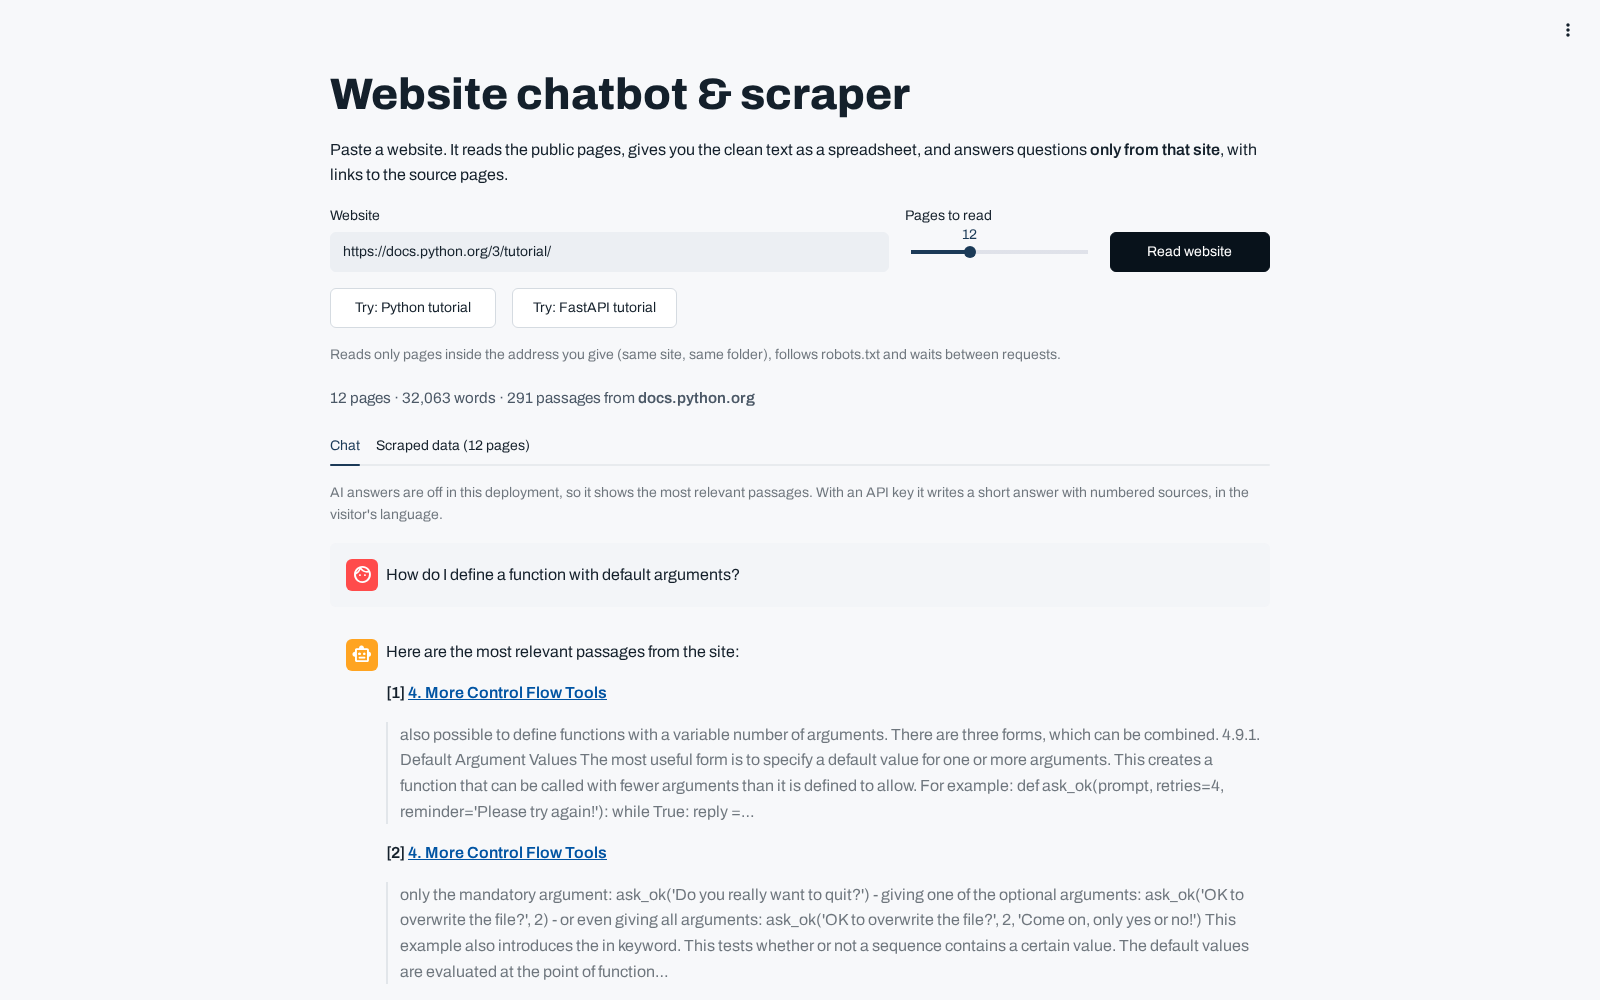
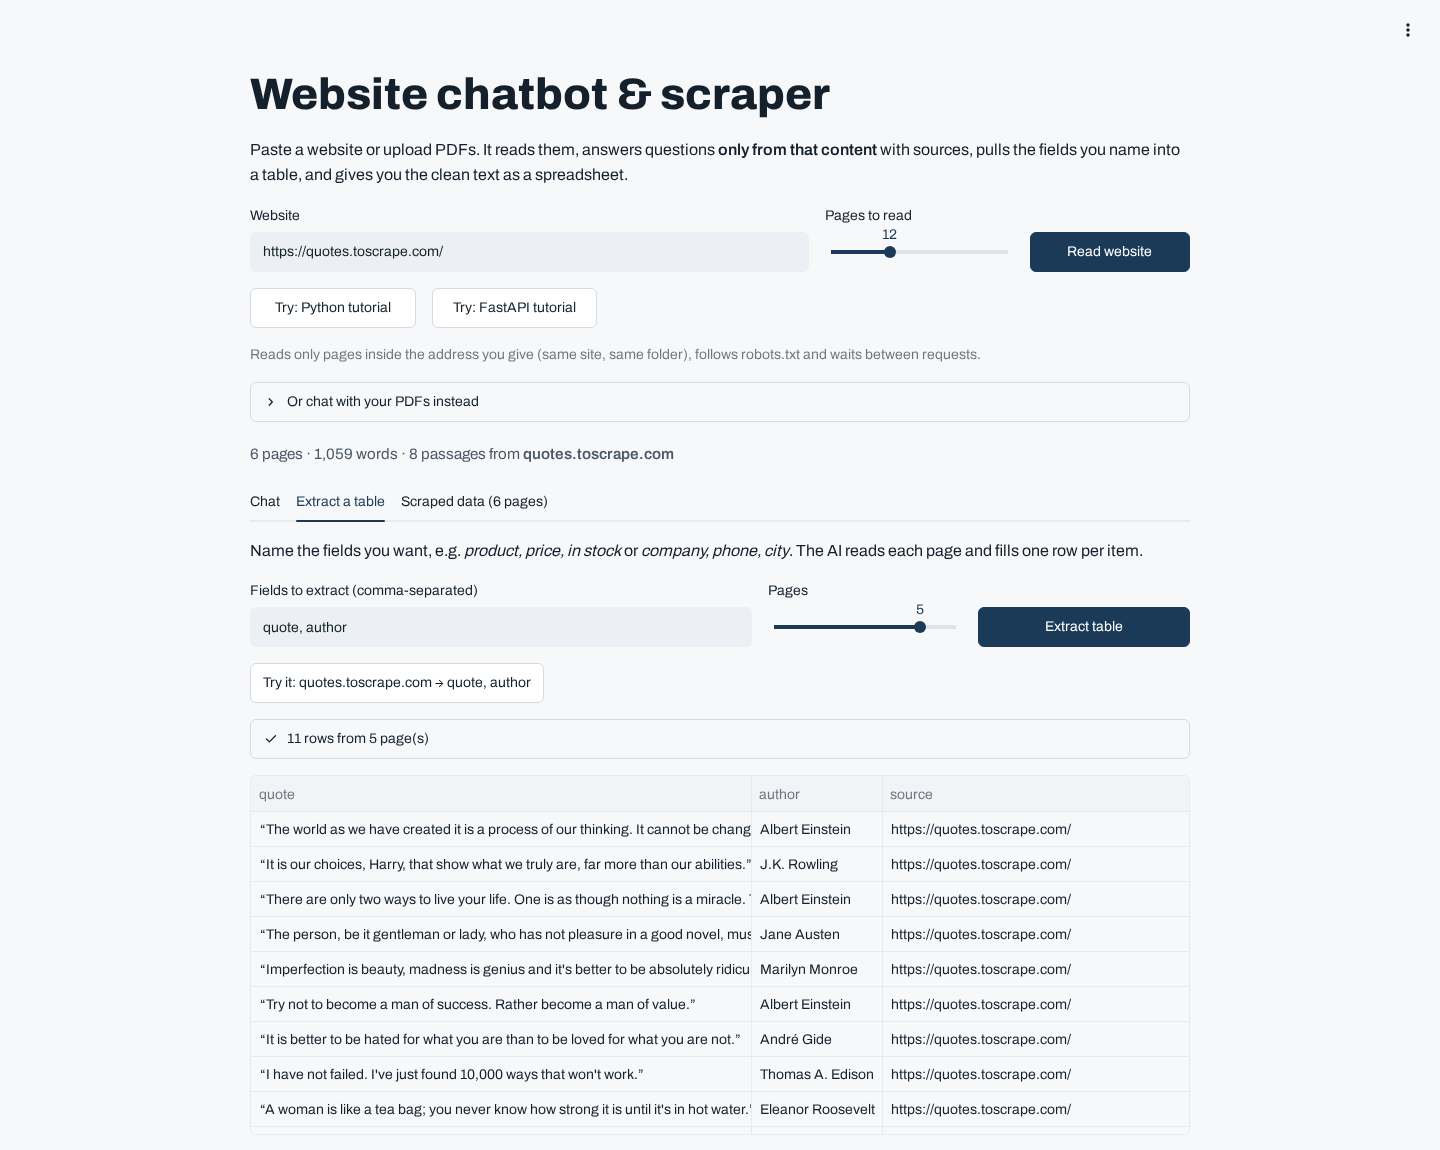
Chat with PDFs, table extraction, OpenRouter free models with fallback

diff --git a/app.py b/app.py
@@ -16,7 +16,10 @@ try:  # Streamlit Cloud secrets -> environment
 except Exception:
     pass
 
+import llm  # noqa: E402
 from answer import AnswerError, ai_available, extractive_answer, stream_answer  # noqa: E402
+from docs import read_pdfs  # noqa: E402
+from extract import extract_rows, parse_fields  # noqa: E402
 from scraper import BlockedURL, Page, crawl  # noqa: E402
 from search import Index  # noqa: E402
 
@@ -26,6 +29,8 @@ HIRE_URL = "https://www.upwork.com/freelancers/~01d6ae0f1a06a43ac0"
 # ---------------------------------------------------------------------------
 
 MAX_QUESTIONS = 12  # per visitor session, keeps a public demo's API bill small
+MAX_EXTRACT_PAGES = 20  # per visitor session
+QUOTES = "https://quotes.toscrape.com/"
 EXAMPLES = {"Python tutorial": "https://docs.python.org/3/tutorial/", "FastAPI tutorial": "https://fastapi.tiangolo.com/tutorial/"}
 
 st.set_page_config(page_title="Website chatbot & scraper", page_icon="💬", layout="wide")
@@ -50,12 +55,23 @@ def scrape(url: str, max_pages: int) -> list[dict]:
 
 def start_scrape(url: str, max_pages: int):
     st.session_state.pending = (url, max_pages)
+    st.session_state.open_tab = None
+
+
+def start_extract_example():
+    st.session_state.pending = (QUOTES, 6)
+    st.session_state.fields = "quote, author"
+    st.session_state.open_tab = "Extract a table"
+
+
+def source_ref(title: str, url: str) -> str:
+    return f"[{title}]({url})" if url.startswith("http") else title
 
 
 st.title("Website chatbot & scraper")
 st.markdown(
-    "Paste a website. It reads the public pages, gives you the clean text as a spreadsheet, "
-    "and answers questions **only from that site**, with links to the source pages."
+    "Paste a website or upload PDFs. It reads them, answers questions **only from that content** with sources, "
+    "pulls the fields you name into a table, and gives you the clean text as a spreadsheet."
 )
 
 c1, c2, c3 = st.columns([4, 1.4, 1.2], vertical_alignment="bottom")
@@ -66,6 +82,17 @@ e1, e2, _ = st.columns([1.2, 1.2, 4])
 for col, (label, link) in zip((e1, e2), EXAMPLES.items()):
     col.button(f"Try: {label}", on_click=start_scrape, args=(link, max_pages), width="stretch")
 st.caption("Reads only pages inside the address you give (same site, same folder), follows robots.txt and waits between requests.")
+
+with st.expander("Or chat with your PDFs instead"):
+    pdfs = st.file_uploader("PDF files (text-based, up to 300 pages in total)", type=["pdf"], accept_multiple_files=True)
+    if st.button("Read PDFs", disabled=not pdfs):
+        with st.spinner("Reading PDFs…"):
+            got, problems = read_pdfs(pdfs)
+        for p in problems:
+            st.warning(p)
+        if got:
+            st.session_state.update(pages=[vars(p) for p in got], site="", site_label=f"{len(pdfs)} PDF file{'s' * (len(pdfs) != 1)}",
+                                    chat=[], asked=0, extracted=None, open_tab=None)
 
 if "pending" in st.session_state:
     target, n = st.session_state.pop("pending")
@@ -83,8 +110,10 @@ if "pending" in st.session_state:
     if pages is not None:
         st.session_state.pages = pages
         st.session_state.site = target
+        st.session_state.site_label = urlparse(target).netloc
         st.session_state.chat = []
         st.session_state.asked = 0
+        st.session_state.extracted = None
         if not pages:
             st.warning("No readable pages found there. The site may block crawlers, need JavaScript to show text, or keep its content elsewhere. Try a more specific address such as a help or docs section.")
 
@@ -93,9 +122,9 @@ if not pages:
     st.info("Pick an example or paste a website address, then press **Read website**.")
 else:
     index = Index(pages)
-    site = urlparse(st.session_state.site).netloc
+    site = st.session_state.get("site_label") or urlparse(st.session_state.site).netloc
     st.markdown(f'<div class="site-line">{len(pages)} pages · {sum(p.words for p in pages):,} words · {len(index.passages)} passages from <b>{site}</b></div>', unsafe_allow_html=True)
-    chat_tab, data_tab = st.tabs(["Chat", f"Scraped data ({len(pages)} pages)"])
+    chat_tab, extract_tab, data_tab = st.tabs(["Chat", "Extract a table", f"Scraped data ({len(pages)} pages)"], default=st.session_state.get("open_tab") or "Chat")
 
     with chat_tab:
         if not ai_available():
@@ -129,7 +158,7 @@ else:
                             st.markdown(text)
                             found = []  # sources are already listed in the passages
                         cited = sorted({int(n) for n in re.findall(r"\[(\d+)\]", text) if 1 <= int(n) <= len(found)})
-                        sources = "  \n".join(f"[{i}] [{found[i - 1].title}]({found[i - 1].url})" for i in cited)
+                        sources = "  \n".join(f"[{i}] {source_ref(found[i - 1].title, found[i - 1].url)}" for i in cited)
                         reply = f"{text}\n\n**Sources**  \n{sources}" if sources else text
                         if sources:
                             st.markdown(f"**Sources**  \n{sources}")
@@ -137,6 +166,51 @@ else:
                 {"role": "user", "content": question, "plain": question},
                 {"role": "assistant", "content": reply, "plain": reply.split("\n\n**Sources**")[0]},
             ]
+
+    with extract_tab:
+        st.markdown("Name the fields you want, e.g. *product, price, in stock* or *company, phone, city*. The AI reads each page and fills one row per item.")
+        if not ai_available():
+            st.info("Table extraction needs the AI model, which isn't configured in this deployment.")
+        else:
+            f1, f2, f3 = st.columns([3, 1.2, 1.3], vertical_alignment="bottom")
+            fields_text = f1.text_input("Fields to extract (comma-separated)", key="fields", placeholder="quote, author")
+            n_pages = f2.slider("Pages", 1, min(10, len(pages)), min(5, len(pages))) if len(pages) > 1 else 1
+            go = f3.button("Extract table", type="primary", width="stretch")
+            st.button("Try it: quotes.toscrape.com → quote, author", on_click=start_extract_example)
+            used = st.session_state.get("extract_used", 0)
+            if go:
+                fields = parse_fields(fields_text or "")
+                if not fields:
+                    st.warning("Type at least one field name.")
+                elif used + n_pages > MAX_EXTRACT_PAGES:
+                    st.warning(f"This demo extracts from up to {MAX_EXTRACT_PAGES} pages per visit. Reload the page to start over.")
+                else:
+                    rows, seen = [], set()
+                    with st.status("Extracting…", expanded=False) as status:
+                        for i, p in enumerate(pages[:n_pages], start=1):
+                            status.update(label=f"Page {i} of {n_pages}: {p.title[:60]}")
+                            try:
+                                for r in extract_rows(p.url, p.text, fields):
+                                    sig = tuple(r.values())
+                                    if sig not in seen:
+                                        seen.add(sig)
+                                        rows.append({**r, "source": p.url})
+                            except llm.LLMError:
+                                status.update(label=f"The AI is busy right now. Stopped after {i - 1} page(s).", state="error")
+                                break
+                        else:
+                            status.update(label=f"{len(rows)} rows from {n_pages} page(s)", state="complete")
+                    st.session_state.extract_used = used + n_pages
+                    st.session_state.extracted = pd.DataFrame(rows) if rows else pd.DataFrame(columns=[lab for _, lab in fields] + ["source"])
+            table = st.session_state.get("extracted")
+            if table is not None:
+                if table.empty:
+                    st.warning("No matching items found on those pages. Try other field names or more pages.")
+                else:
+                    st.dataframe(table, hide_index=True, width="stretch", height=360)
+                    g1, g2, _ = st.columns([1, 1, 3])
+                    g1.download_button("Download CSV", table.to_csv(index=False).encode(), "extracted.csv", "text/csv", width="stretch")
+                    g2.download_button("Download JSON", json.dumps(table.to_dict("records"), ensure_ascii=False, indent=1).encode(), "extracted.json", "application/json", width="stretch")
 
     with data_tab:
         df = pd.DataFrame([{"url": p.url, "title": p.title, "words": p.words, "text": p.text} for p in pages])
@@ -149,7 +223,9 @@ with st.expander("How this works"):
     st.markdown(
         """
 - **Scraper:** crawls pages under the address you give, respects robots.txt, waits between requests, extracts the main text and drops menus, footers and ads.
+- **PDFs:** reads text-based PDFs page by page and cites "file.pdf, page N".
 - **Search:** splits pages into passages and ranks them against the question (BM25+).
+- **Extract a table:** the AI reads each page and returns rows with exactly the fields you asked for, validated against a strict schema, with the source page on every row.
 - **Answers:** an AI model writes a short answer from the best passages only, cites them, and says so when the site doesn't cover the question. If the AI is busy, you get the best passages instead.
 - **Client versions:** PDFs and help-center exports, scheduled re-indexing, an embeddable chat widget, lead capture and WhatsApp or email handoff, analytics on unanswered questions.
 """

diff --git a/tests/test_chatbot.py b/tests/test_chatbot.py
@@ -57,3 +57,56 @@ def test_stream_answer_sends_excerpts_and_turns_busy_into_answer_error():
 
     with pytest.raises(AnswerError):
         "".join(stream_answer("example.com", "x", [], [], stream=busy))
+
+
+def test_table_extraction_cleans_rows_and_sends_exact_fields():
+    from extract import extract_rows, parse_fields
+
+    fields = parse_fields("Quote, author, Author")
+    assert fields == [("quote", "Quote"), ("author", "author")]
+    seen = {}
+
+    def fake_complete(messages, schema, name):
+        seen["schema"] = schema
+        return {"rows": [{"quote": " Be yourself. ", "author": "Oscar Wilde"}, {"quote": "", "author": ""}]}, "fake"
+
+    rows = extract_rows("https://q.example/", "some page text", fields, complete=fake_complete)
+    assert rows == [{"Quote": "Be yourself.", "author": "Oscar Wilde"}]
+    item = seen["schema"]["properties"]["rows"]["items"]
+    assert item["required"] == ["quote", "author"] and item["additionalProperties"] is False
+
+
+def _tiny_pdf(text: str) -> bytes:
+    stream = f"BT /F1 12 Tf 72 712 Td ({text}) Tj ET".encode()
+    objs = [
+        b"<< /Type /Catalog /Pages 2 0 R >>",
+        b"<< /Type /Pages /Kids [3 0 R] /Count 1 >>",
+        b"<< /Type /Page /Parent 2 0 R /MediaBox [0 0 612 792] /Contents 4 0 R /Resources << /Font << /F1 5 0 R >> >> >>",
+        b"<< /Length %d >>\nstream\n" % len(stream) + stream + b"\nendstream",
+        b"<< /Type /Font /Subtype /Type1 /BaseFont /Helvetica >>",
+    ]
+    out, offsets = b"%PDF-1.4\n", []
+    for i, body in enumerate(objs, start=1):
+        offsets.append(len(out))
+        out += b"%d 0 obj\n" % i + body + b"\nendobj\n"
+    xref = len(out)
+    out += b"xref\n0 %d\n0000000000 65535 f \n" % (len(objs) + 1) + b"".join(b"%010d 00000 n \n" % o for o in offsets)
+    out += b"trailer\n<< /Size %d /Root 1 0 R >>\nstartxref\n%d\n%%%%EOF\n" % (len(objs) + 1, xref)
+    return out
+
+
+def test_pdfs_become_citable_pages():
+    import io
+
+    from docs import read_pdfs
+
+    text = "Our return policy allows returns within thirty days of delivery for a full refund to the original payment method"
+    f = io.BytesIO(_tiny_pdf(text))
+    f.name = "policy.pdf"
+    bad = io.BytesIO(b"not a pdf")
+    bad.name = "broken.pdf"
+    pages, problems = read_pdfs([f, bad])
+    assert [p.title for p in pages] == ["policy.pdf, page 1"]
+    assert "thirty days" in pages[0].text
+    assert problems == ["broken.pdf: not a readable PDF"]
+    assert "policy.pdf, page 1" in extractive_answer(Index(pages).top("return policy refund", 1))

diff --git a/extract.py b/extract.py
@@ -1,0 +1,48 @@
+"""Structured extraction: turn page text into table rows with the fields the user names."""
+from __future__ import annotations
+
+import re
+
+import llm
+
+MAX_FIELDS = 8
+MAX_CHARS = 12_000  # per page sent to the model
+
+
+def parse_fields(text: str) -> list[tuple[str, str]]:
+    """'Product name, price, in stock?' -> [('product_name', 'Product name'), ...]"""
+    out, seen = [], set()
+    for raw in text.split(","):
+        label = raw.strip()
+        key = re.sub(r"\W+", "_", label.lower()).strip("_")
+        if label and key and key not in seen:
+            out.append((key, label))
+            seen.add(key)
+    return out[:MAX_FIELDS]
+
+
+def _schema(fields: list[tuple[str, str]]) -> dict:
+    row = {"type": "object", "properties": {k: {"type": "string"} for k, _ in fields}, "required": [k for k, _ in fields], "additionalProperties": False}
+    return {"type": "object", "properties": {"rows": {"type": "array", "items": row}}, "required": ["rows"], "additionalProperties": False}
+
+
+PROMPT = """Extract every item on this web page that has these fields: {fields}.
+Return one row per item, in page order. Copy values exactly as written on the page.
+Use an empty string when a field is missing for an item. Never invent values.
+If the page has no such items, return an empty list.
+
+Page: {url}
+---
+{text}"""
+
+
+def extract_rows(url: str, text: str, fields: list[tuple[str, str]], complete=llm.complete_json) -> list[dict]:
+    labels = ", ".join(f'"{k}" ({label})' for k, label in fields)
+    data, _model = complete([{"role": "user", "content": PROMPT.format(fields=labels, url=url, text=text[:MAX_CHARS])}], _schema(fields), "rows")
+    rows = []
+    for r in data.get("rows", []):
+        if isinstance(r, dict):
+            clean = {label: str(r.get(k, "") or "").strip() for k, label in fields}
+            if any(clean.values()):
+                rows.append(clean)
+    return rows

diff --git a/docs.py b/docs.py
@@ -1,0 +1,35 @@
+"""Read uploaded PDFs into the same Page objects the website crawler produces."""
+from __future__ import annotations
+
+from pypdf import PdfReader
+from pypdf.errors import PdfReadError
+
+from scraper import Page
+
+MAX_PAGES = 300
+
+
+def read_pdfs(files) -> tuple[list[Page], list[str]]:
+    """Return (pages, problems). Each PDF page becomes one Page titled 'file.pdf, page N'."""
+    pages, problems = [], []
+    for f in files:
+        try:
+            reader = PdfReader(f)
+        except (PdfReadError, ValueError, OSError):
+            problems.append(f"{f.name}: not a readable PDF")
+            continue
+        if reader.is_encrypted:
+            problems.append(f"{f.name}: password-protected")
+            continue
+        found = 0
+        for i, pg in enumerate(reader.pages, start=1):
+            if len(pages) >= MAX_PAGES:
+                problems.append(f"Stopped at {MAX_PAGES} pages (demo limit).")
+                return pages, problems
+            text = (pg.extract_text() or "").strip()
+            if len(text.split()) >= 10:  # skip blank or near-empty pages
+                pages.append(Page(f"{f.name}#page={i}", f"{f.name}, page {i}", text))
+                found += 1
+        if not found:
+            problems.append(f"{f.name}: no text found (scanned PDFs need OCR, which client versions include)")
+    return pages, problems

diff --git a/answer.py b/answer.py
@@ -47,5 +47,6 @@ def extractive_answer(passages: list[Passage], n: int = 3) -> str:
     for i, p in enumerate(passages[:n], start=1):
         snippet = p.text[:420].rsplit(" ", 1)[0] + ("…" if len(p.text) > 420 else "")
         plain = re.sub(r"([\\`*_{}\[\]<>#+\-!|])", r"\\\1", snippet.replace("\n", " "))  # show text literally
-        parts.append(f"**[{i}] [{p.title}]({p.url})**\n\n> {plain}")
+        ref = f"[{p.title}]({p.url})" if p.url.startswith("http") else p.title
+        parts.append(f"**[{i}] {ref}**\n\n> {plain}")
     return "\n\n".join(parts)

diff --git a/README.md b/README.md
@@ -2,11 +2,13 @@
 
 **Live demo:** https://slimaneoptic-chatbot.streamlit.app
 
-Paste a website. It reads the public pages, gives you the clean text as CSV or JSON, and answers questions **only from that site**, with links to the source pages.
+Paste a website or upload PDFs. It answers questions **only from that content** with sources, extracts the fields you name into a table, and gives you the clean text as CSV or JSON.
 
 ![Website chatbot](docs/screenshot.png)
 
 ## Features
+- **Chat with PDFs:** text-based PDFs, cited as "file.pdf, page N".
+- **Extract a table:** type the fields you want ("product, price, in stock"); the AI returns one validated row per item, with the source page.
 - **Polite crawler:** stays inside the given site and folder, follows robots.txt, waits between requests, and caps page size.
 - **Safe for a public demo:** refuses private or internal network addresses, re-checked on every redirect.
 - **Clean extraction:** main text only (menus, footers and ads removed) via trafilatura.
